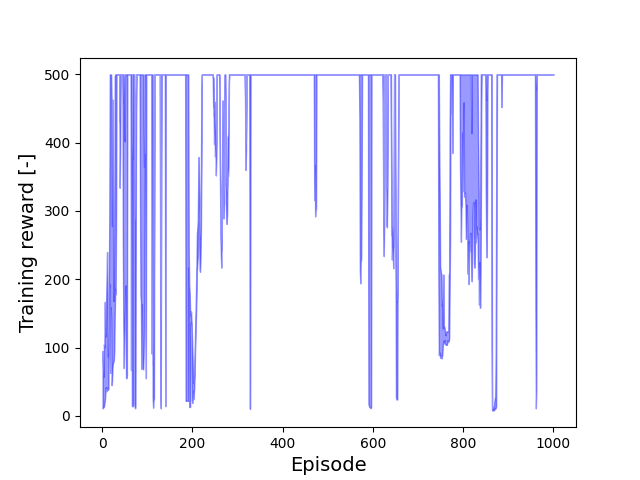
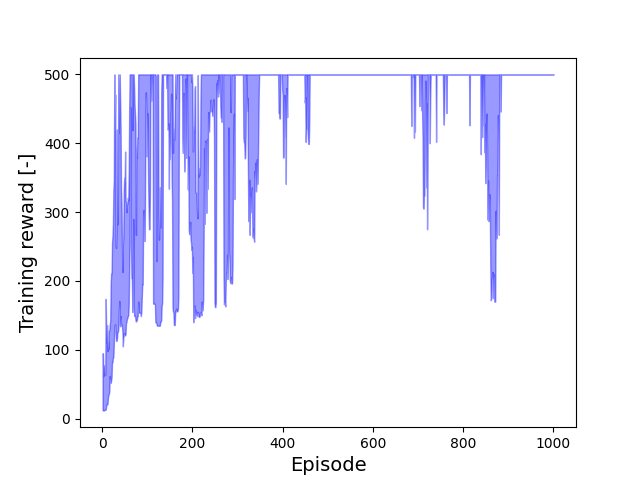
Finalized implementation of PPO Clip. Achieves 500 steps in Cartpole-v1.

diff --git a/jaxagents/ppo.py b/jaxagents/ppo.py
@@ -410,17 +410,8 @@ class PPOAgentBase(ABC):
         actor_training, actor_loss_input, kl, epoch, kl_threshold = epoch_runner
         grad_input = (actor_training, *actor_loss_input)
         grad_fn = jax.grad(self._actor_loss, has_aux=True, allow_int=True)
-        # grads, kl = grad_fn(*grad_input)
-        grads, kl = grad_fn(*actor_loss_input)
+        grads, kl = grad_fn(*grad_input)
         actor_training = actor_training.apply_gradients(grads=grads.params)
-
-        # A = jnp.concatenate((
-        #     grads.params['params']['Dense_0']['bias'].flatten(), grads.params['params']['Dense_0']['kernel'].flatten(),
-        #     grads.params['params']['Dense_1']['bias'].flatten(), grads.params['params']['Dense_1']['kernel'].flatten(),
-        #     grads.params['params']['Dense_2']['bias'].flatten(), grads.params['params']['Dense_2']['kernel'].flatten(),
-        # ))
-        # if jnp.any(jnp.not_equal(A, 0)):
-        #     print()
 
         return (actor_training, actor_loss_input, kl, epoch+1, kl_threshold)
 
@@ -458,8 +449,7 @@ class PPOAgentBase(ABC):
         critic_training, critic_loss_input = epoch_runner
         grad_input = (critic_training, *critic_loss_input)
         grad_fn = jax.grad(self._critic_loss, allow_int=True)
-        # grads = grad_fn(*grad_input)
-        grads = grad_fn(*critic_loss_input)
+        grads = grad_fn(*grad_input)
         critic_training = critic_training.apply_gradients(grads=grads.params)
         return (critic_training, critic_loss_input)
 
@@ -657,7 +647,6 @@ class PPOAgentBase(ABC):
         else:
             raise Exception("The agent has not been trained.")
 
-
     """ METHODS FOR PERFORMANCE EVALUATION """
 
     def _eval_agent(self, rng: PRNGKeyArray, actor_training: TrainState, critic_training: TrainState,
@@ -790,7 +779,7 @@ class PPOAgentBase(ABC):
         return self._summary_stats(metric)
 
 
-class PPOAgent(PPOAgentBase):
+class PPOClipAgent(PPOAgentBase):
 
     """
     PPO clip agent
@@ -817,7 +806,7 @@ class PPOAgent(PPOAgentBase):
     def _actor_loss(self, training: TrainState, state: Float[Array, "n_rollout batch_size state_size"],
                     action: Float[Array, "n_rollout batch_size"], log_prob_old: Float[Array, "n_rollout batch_size"],
                     returns: RETURNS_TYPE, value: Float[Array, "batch_size n_rollout"], hyperparams: HyperParameters)\
-            -> Tuple[float, Float[Array, "1"]]:
+            -> Tuple[Union[float, Float[Array, "1"]], Float[Array, "1"]]:
         """
         Calculates the actor loss. For the REINFORCE agent, the advantage function is the difference between the
         discounted returns and the value as estimated by the critic.
@@ -835,39 +824,42 @@ class PPOAgent(PPOAgentBase):
         log_prob = actor_policy.log_prob(action)
         log_policy_ratio = log_prob - log_prob_old
         policy_ratio = jnp.exp(log_policy_ratio)
-        # policy_ratio_clipped = jnp.clip(policy_ratio, 1 + hyperparams.eps_clip, 1 - hyperparams.eps_clip)
         kl = jnp.sum(-log_policy_ratio)
 
         advantage = returns - value
-        # advantage_clip = jnp.clip(policy_ratio, 1 + hyperparams.eps_clip, 1 - hyperparams.eps_clip) * advantage
+
+        """
+        Adopt simplified formulation of clipped policy ratio * advantage as explained in the note of:
+        https://spinningup.openai.com/en/latest/algorithms/ppo.html#id2
+        """
         clip = jnp.where(jnp.greater(advantage, 0), 1 + hyperparams.eps_clip, 1 - hyperparams.eps_clip)
         advantage_clip = advantage * clip
 
-        """ Negative gradient, because we want ascent but 'apply_gradients' applies descent """
-        # loss_actor = - advantage * jnp.minimum(policy_ratio, policy_ratio_clipped)
-        loss_actor = - jnp.minimum(policy_ratio * advantage, advantage_clip)
+        """Actual clip calculation - not used but left here for comparison to simplified version"""
+        # advantage_clip = jnp.clip(policy_ratio, 1 - hyperparams.eps_clip, 1 + hyperparams.eps_clip) * advantage
+
+        loss_actor = jnp.minimum(policy_ratio * advantage, advantage_clip)
 
         entropy = actor_policy.entropy().mean()
+        total_loss_actor = loss_actor.mean() + hyperparams.ent_coeff * entropy
 
-        total_loss_actor = loss_actor.mean() - hyperparams.ent_coeff * entropy
-
-        return total_loss_actor, kl
+        """ Negative loss, because we want ascent but 'apply_gradients' applies descent """
+        return -total_loss_actor, kl
 
     @partial(jax.jit, static_argnums=(0,))
     def _critic_loss(self, training: TrainState, state: Float[Array, "n_rollout batch_size state_size"],
-                     targets: Float[Array, "batch_size n_rollout"],
-                     hyperparams: HyperParameters) -> float:
+                     returns: RETURNS_TYPE, hyperparams: HyperParameters) -> Float[Array, "1"]:
         """
         Calculates the critic loss.
         :param training: The critic TrainState object.
         :param state: The states in the trajectory batch.
-        :param targets: The returns over the trajectory batch, which act as the targets for training the critic.
+        :param returns: The returns over the trajectory batch, which act as the targets for training the critic.
         :param hyperparams: The HyperParameters object used for training.
         :return: The critic loss.
         """
 
         value = training.apply_fn(training.params, state)
-        value_loss = jnp.mean((value - targets) ** 2)
+        value_loss = jnp.mean((value - returns) ** 2)
         critic_total_loss = hyperparams.vf_coeff * value_loss
         return critic_total_loss
 
@@ -887,7 +879,6 @@ class PPOAgent(PPOAgentBase):
         """
 
         return (
-            update_runner.actor_training,
             traj_batch.state,
             traj_batch.action,
             traj_batch.log_prob,
@@ -910,7 +901,6 @@ class PPOAgent(PPOAgentBase):
         """
 
         return (
-            update_runner.critic_training,
             traj_batch.state,
             returns,
             update_runner.hyperparams

diff --git a/benchmarks/cartpole v1/cartpole_nn_gallery.py b/benchmarks/cartpole v1/cartpole_nn_gallery.py
@@ -5,7 +5,7 @@ import jax.numpy as jnp
 import distrax
 
 
-class DQN_NN_model(nn.Module):
+class DQN_NN(nn.Module):
     action_dim: Sequence[int]
     config: dict
 
@@ -24,7 +24,7 @@ class DQN_NN_model(nn.Module):
         return q.reshape(-1, self.action_dim)
 
 
-class Categorical_NN_model(nn.Module):
+class Categorical_NN(nn.Module):
     action_dim: Sequence[int]
     config: dict
 
@@ -44,7 +44,7 @@ class Categorical_NN_model(nn.Module):
         return q.reshape(-1, self.action_dim, n_atoms)
 
 
-class QRDDQN_NN_model(nn.Module):
+class QRDDQN_NN(nn.Module):
     action_dim: Sequence[int]
     config: dict
 
@@ -68,32 +68,7 @@ class QRDDQN_NN_model(nn.Module):
         return q
 
 
-class PPO_NN_model(nn.Module):
-    action_dim: Sequence[int]
-    config: dict
-
-    @nn.compact
-    def __call__(self, x):
-
-        activation = nn.tanh
-
-        actor_mean = nn.Dense(128, kernel_init=orthogonal(jnp.sqrt(2)), bias_init=constant(0.0))(x)
-        actor_mean = activation(actor_mean)
-        actor_mean = nn.Dense(64, kernel_init=orthogonal(jnp.sqrt(2)), bias_init=constant(0.0))(actor_mean)
-        actor_mean = activation(actor_mean)
-        actor_mean = nn.Dense(self.action_dim, kernel_init=orthogonal(0.01), bias_init=constant(0.0))(actor_mean)
-        pi = distrax.Categorical(logits=actor_mean)
-
-        critic = nn.Dense(128, kernel_init=orthogonal(jnp.sqrt(2)), bias_init=constant(0.0))(x)
-        critic = activation(critic)
-        critic = nn.Dense(64, kernel_init=orthogonal(jnp.sqrt(2)), bias_init=constant(0.0))(critic)
-        critic = activation(critic)
-        critic = nn.Dense(1, kernel_init=orthogonal(1.0), bias_init=constant(0.0))(critic)
-
-        return pi, jnp.squeeze(critic, axis=-1)
-
-
-class VanillaPG_Actor_NN_model(nn.Module):
+class PGActorNN(nn.Module):
     action_dim: Sequence[int]
     config: dict
 
@@ -112,7 +87,7 @@ class VanillaPG_Actor_NN_model(nn.Module):
         return pi
 
 
-class VanillaPG_Critic_NN_model(nn.Module):
+class PGCriticNN(nn.Module):
     action_dim: Sequence[int]
     config: dict
 

diff --git a/jaxagents/vpg.py b/jaxagents/vpg.py
@@ -749,7 +749,7 @@ class ReinforceAgent(PGAgentBase):
     @partial(jax.jit, static_argnums=(0,))
     def _actor_loss(self, training: TrainState, state: Float[Array, "n_rollout batch_size state_size"],
                     action: Float[Array, "n_rollout batch_size"], returns: RETURNS_TYPE,
-                    value: Float[Array, "batch_size n_rollout"], hyperparams: HyperParameters) -> float:
+                    value: Float[Array, "batch_size n_rollout"], hyperparams: HyperParameters) -> Float[Array, "1"]:
         """
         Calculates the actor loss. For the REINFORCE agent, the advantage function is the difference between the
         discounted returns and the value as estimated by the critic.
@@ -766,18 +766,17 @@ class ReinforceAgent(PGAgentBase):
         log_prob = actor_policy.log_prob(action)
         advantage = returns - value
 
-        """ Negative gradient, because we want ascent but 'apply_gradients' applies descent """
         loss_actor = -advantage * log_prob
         entropy = actor_policy.entropy().mean()
-
         total_loss_actor = loss_actor.mean() - hyperparams.ent_coeff * entropy
 
-        return total_loss_actor
+        """ Negative loss, because we want ascent but 'apply_gradients' applies descent """
+        return - total_loss_actor
 
     @partial(jax.jit, static_argnums=(0,))
     def _critic_loss(self, training: TrainState, state: Float[Array, "n_rollout batch_size state_size"],
                      targets: Float[Array, "batch_size n_rollout"],
-                     hyperparams: HyperParameters) -> float:
+                     hyperparams: HyperParameters) -> Float[Array, "1"]:
         """
         Calculates the critic loss.
         :param training: The critic TrainState object.

diff --git a/benchmarks/cartpole v1/cartpole_v1_ppo.py b/benchmarks/cartpole v1/cartpole_v1_ppo.py
@@ -34,8 +34,8 @@ if __name__ == '__main__':
 
     """Define configuration for agent training"""
     config = ppo.AgentConfig(
-        actor_network=VanillaPG_Actor_NN_model,
-        critic_network=VanillaPG_Critic_NN_model,
+        actor_network=PGActorNN,
+        critic_network=PGCriticNN,
         transition_template=transition_temp,
         rollout_length=50,
         n_steps=1_000,
@@ -43,11 +43,11 @@ if __name__ == '__main__':
         actor_epochs=10,
         critic_epochs=10,
         optimizer=optax.adam,
-        eval_rng=jax.random.PRNGKey(18)
+        # eval_rng=jax.random.PRNGKey(18)
     )
 
     """Set up agent"""
-    agent = ppo.PPOAgent(env, env_params, config)
+    agent = ppo.PPOClipAgent(env, env_params, config)
     print(agent.__str__())
 
     """Define optimizer parameters and training hyperparameters"""
@@ -55,7 +55,7 @@ if __name__ == '__main__':
     hyperparams = ppo.HyperParameters(
         gamma=0.99,
         eps_clip=0.2,
-        kl_threshold=1.5,
+        kl_threshold=0.015,
         gae_lambda=1.0,
         ent_coeff=0.0,
         vf_coeff=1.0,
@@ -69,7 +69,6 @@ if __name__ == '__main__':
     """Train agent"""
     t0 = time.time()
     runner, training_metrics = jax.block_until_ready(agent.train(rng_train, hyperparams))
-    # with jax.disable_jit(True): runner, training_metrics = jax.block_until_ready(agent.train(rng_train, hyperparams))
     print(f"time: {time.time() - t0:.2f} s")
 
     """ Post-process results"""

diff --git a/benchmarks/cartpole v1/cartpole_v1_pgreinforce.py b/benchmarks/cartpole v1/cartpole_v1_pgreinforce.py
@@ -34,8 +34,8 @@ if __name__ == '__main__':
 
     """Define configuration for agent training"""
     config = vpg.AgentConfig(
-        actor_network=VanillaPG_Actor_NN_model,
-        critic_network=VanillaPG_Critic_NN_model,
+        actor_network=PGActorNN,
+        critic_network=PGCriticNN,
         transition_template=transition_temp,
         rollout_length=50,
         n_steps=1_000,

diff --git a/benchmarks/cartpole v1/cartpole_v1_dqn.py b/benchmarks/cartpole v1/cartpole_v1_dqn.py
@@ -33,7 +33,7 @@ if __name__ == '__main__':
 
     """Define configuration for agent training"""
     config = dqn.AgentConfig(
-        q_network=DQN_NN_model,
+        q_network=DQN_NN,
         transition_template=transition_temp,
         n_steps=500_000,
         buffer_type="FLAT",
